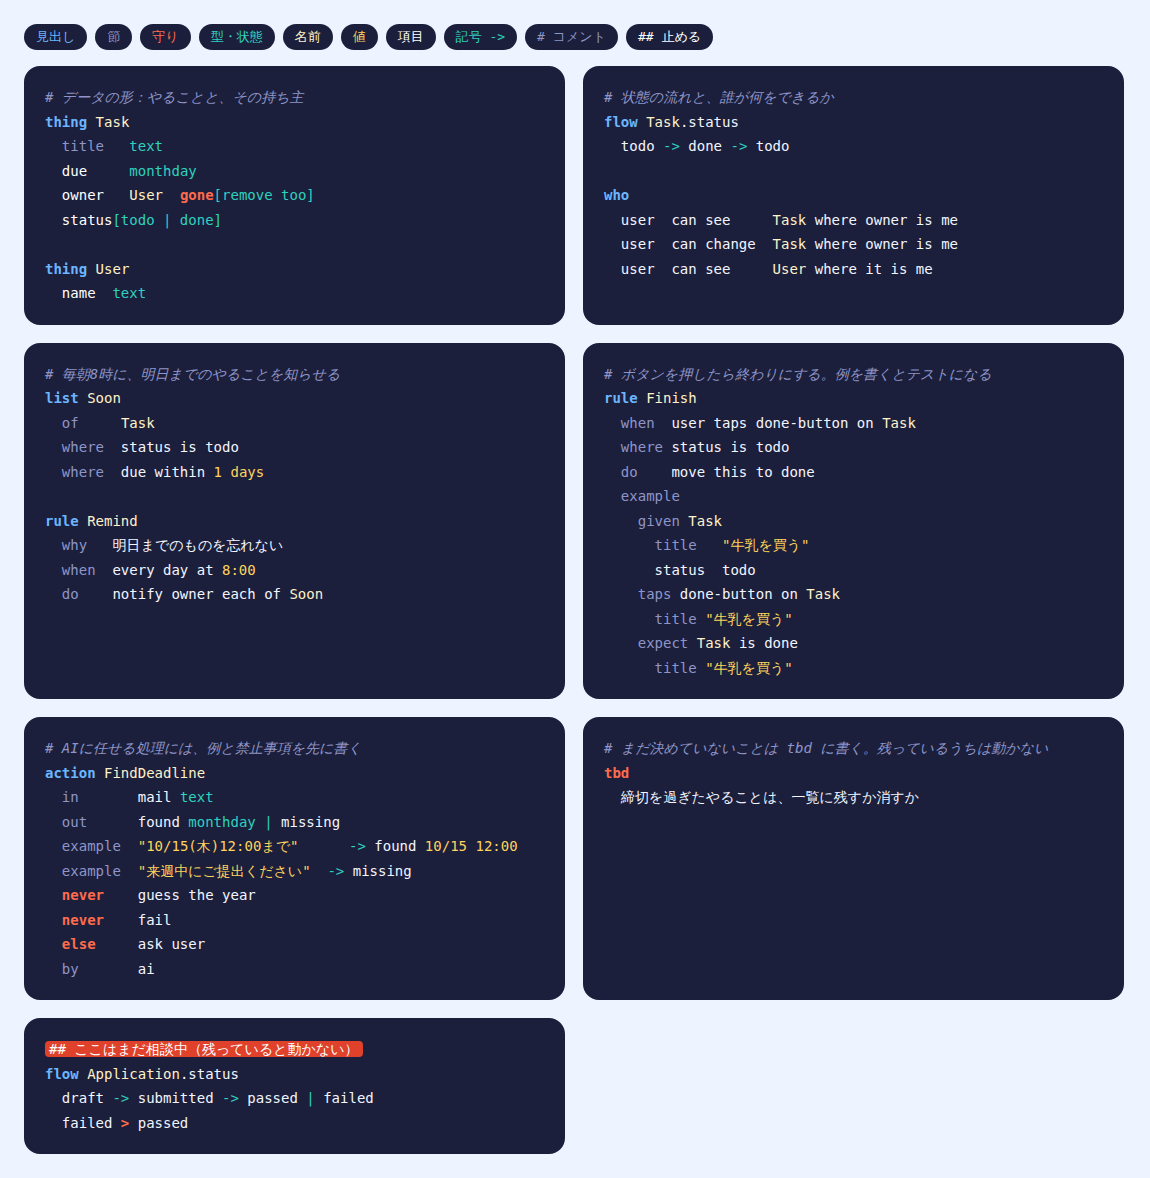
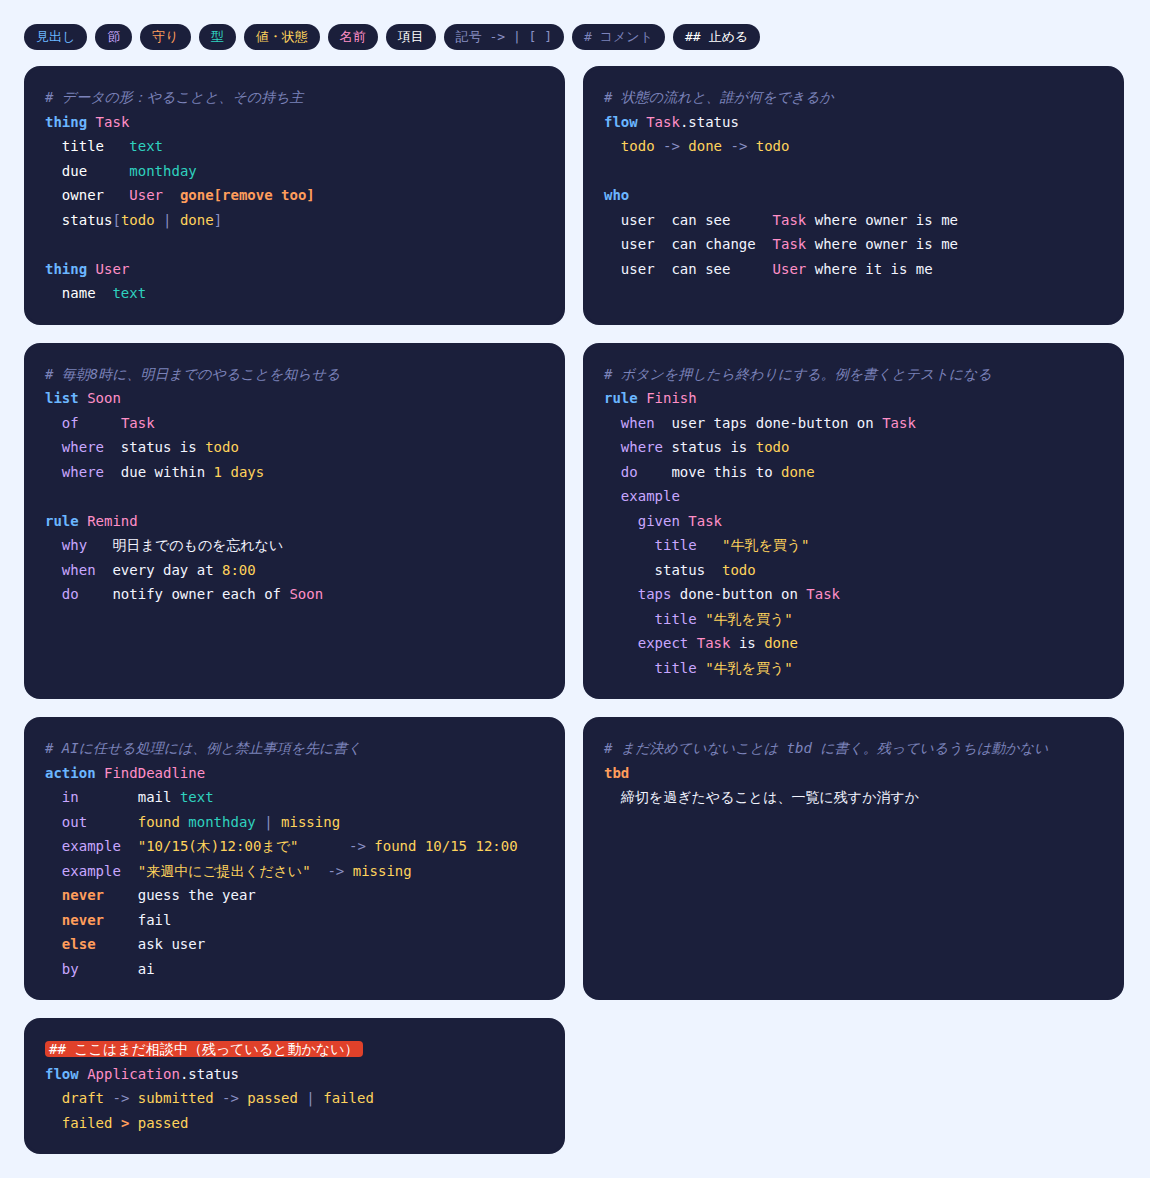
色付けを見直す: 状態は値と同じ色、記号は控えめ、名前はピンク、節はラベンダー、守りはコーラル
節とコメント・型と記号・名前と項目が見分けにくかったのを直す。見本の画像も更新。

Claude-Session: https://claude.ai/code/session_019YbMfKhfobYUDvNw6a5grA

diff --git a/site/highlight.py b/site/highlight.py
@@ -10,20 +10,20 @@ CLAUSE = ("of where sort when do why in out example by ask how given at says tap
           "title sub mark button lead heading empty search take top main side bottom over").split()
 GUARD = "never else tbd gone limit confirm".split()
 TYPES = "text number count money percent date monthday duration file image pdf".split()
-TOKEN = re.compile(r'"[^"]*"|->|\||>|\[[^\]]*\]|\d+(?:[:/.]\d+)*(?:\s+(?:days?|hours?|minutes?|seconds?|weeks?))?|[A-Za-z_][\w-]*|\s+|.')
+TOKEN = re.compile(r'"[^"]*"|->|\||>|\[|\]|\d+(?:[:/.]\d+)*(?:\s+(?:days?|hours?|minutes?|seconds?|weeks?))?|[A-Za-z_][\w-]*|\s+|.')
 
 
 def _span(cls, text):
     return f'<span class="{cls}">{html.escape(text, quote=False)}</span>'
 
 
-def line(src: str, in_fields: bool) -> str:
+def line(src: str, in_fields: bool, states: frozenset = frozenset()) -> str:
     if src.lstrip().startswith("##"):
         return _span("block", src)
     code, _, comment = src.partition(" #") if " #" in src and '"' not in src.split(" #")[0][-1:] else (src, "", "")
     if src.lstrip().startswith("#"):
         return _span("c", src)
-    out, first = [], True
+    out, first, guard_bracket = [], True, False
     indented = src[:1] == " "
     for m in TOKEN.finditer(code):
         t = m.group(0)
@@ -38,12 +38,19 @@ def line(src: str, in_fields: bool) -> str:
             cls = "field"                          # thing / input の中の行頭は項目名（title なども）
         elif first and indented and t in CLAUSE:
             cls = "clause"
-        elif t in GUARD or t == ">" or (t.startswith("[") and out and out[-1].endswith(">gone</span>")):
-            cls = "guard"                          # gone[remove too] の中身も守り
-        elif t in TYPES or t.startswith("["):
-            cls = "type"
-        elif t in ("->", "|"):
+        elif t == "[" and out and out[-1].endswith(">gone</span>"):
+            cls, guard_bracket = "guard", True     # gone[remove too] の中身も守り
+        elif guard_bracket:
+            cls = "guard"
+            guard_bracket = t != "]"
+        elif t in GUARD or t == ">":
+            cls = "guard"
+        elif t in ("[", "]", "->", "|"):
             cls = "op"
+        elif t in states:
+            cls = "val"                            # 状態の名前は値の仲間
+        elif t in TYPES:
+            cls = "type"
         elif t.startswith('"') or re.match(r"\d", t):
             cls = "val"
         elif re.fullmatch(r"[A-Z]\w*", t):
@@ -57,10 +64,22 @@ def line(src: str, in_fields: bool) -> str:
     return "".join(out)
 
 
-def highlight(src: str) -> str:
+def states_in(src: str) -> frozenset:
+    """[a | b] と flow の行から、状態の名前を集める"""
+    names = set()
+    for m in re.finditer(r"\w+\[([^\]]*)\]", src):
+        if not m.group(0).startswith("gone["):
+            names |= {x.strip() for x in m.group(1).split("|")}
+    for l in re.findall(r"^\s+(\w.*->.*)$", src, re.M):
+        names |= set(re.findall(r"[a-z_]\w*", l))
+    return frozenset(names)
+
+
+def highlight(src: str, states: frozenset | None = None) -> str:
+    states = states_in(src) if states is None else states
     rows, in_fields = [], False
     for l in src.rstrip("\n").split("\n"):
         if l and l[0] != " " and not l.startswith("#"):
             in_fields = l.split()[0] in ("thing", "input")
-        rows.append(line(l, in_fields))
+        rows.append(line(l, in_fields, states))
     return "\n".join(rows)
